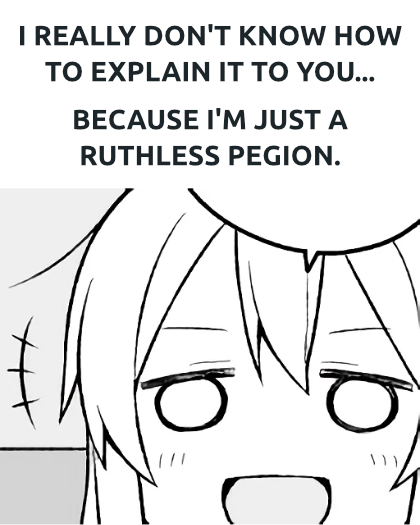
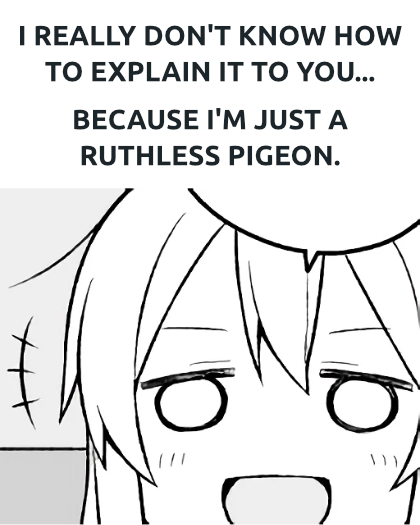
...And yet another typo.

Changed region(s): [[0.5881, 0.2743, 0.8048, 0.3352], [0.1857, 0.2743, 0.4952, 0.3048], [0.5262, 0.2743, 0.5571, 0.3048]]

diff --git a/README.md b/README.md
@@ -1,6 +1,6 @@
 # Mihari & Mahiro Themes
 
-**WARNING: THIS IS JUST A PREVIEW VERSION, COLORS COULD CHANGE IN THE FUTURE**
+**THIS IS JUST A PREVIEW VERSION, COLORS COULD CHANGE IN THE FUTURE**
 
 Mihari and Mahiro are dark and light VSCode themes. Both themes fearture a
 medium contrast and friendly colors. Borders of UI elements are by default
@@ -54,4 +54,4 @@ The names of these themes come from the manga _Onī-chan wa Oshimai! (Don't be a
 
 More info on this manga at [Wikipedia (Chinese)](https://zh.wikipedia.org/wiki/%E5%88%AB%E5%BD%93%E6%AC%A7%E5%B0%BC%E9%85%B1%E4%BA%86%EF%BC%81), [Wikipedia (Japanese)](https://ja.wikipedia.org/wiki/%E3%81%8A%E5%85%84%E3%81%A1%E3%82%83%E3%82%93%E3%81%AF%E3%81%8A%E3%81%97%E3%81%BE%E3%81%84!), and [Pixiv](https://www.pixiv.net/user/159912/series/12).
 
-![](https://i.loli.net/2018/09/21/5ba4e08727893.png)
+![](https://i.loli.net/2018/09/21/5ba4e777931f6.png)
